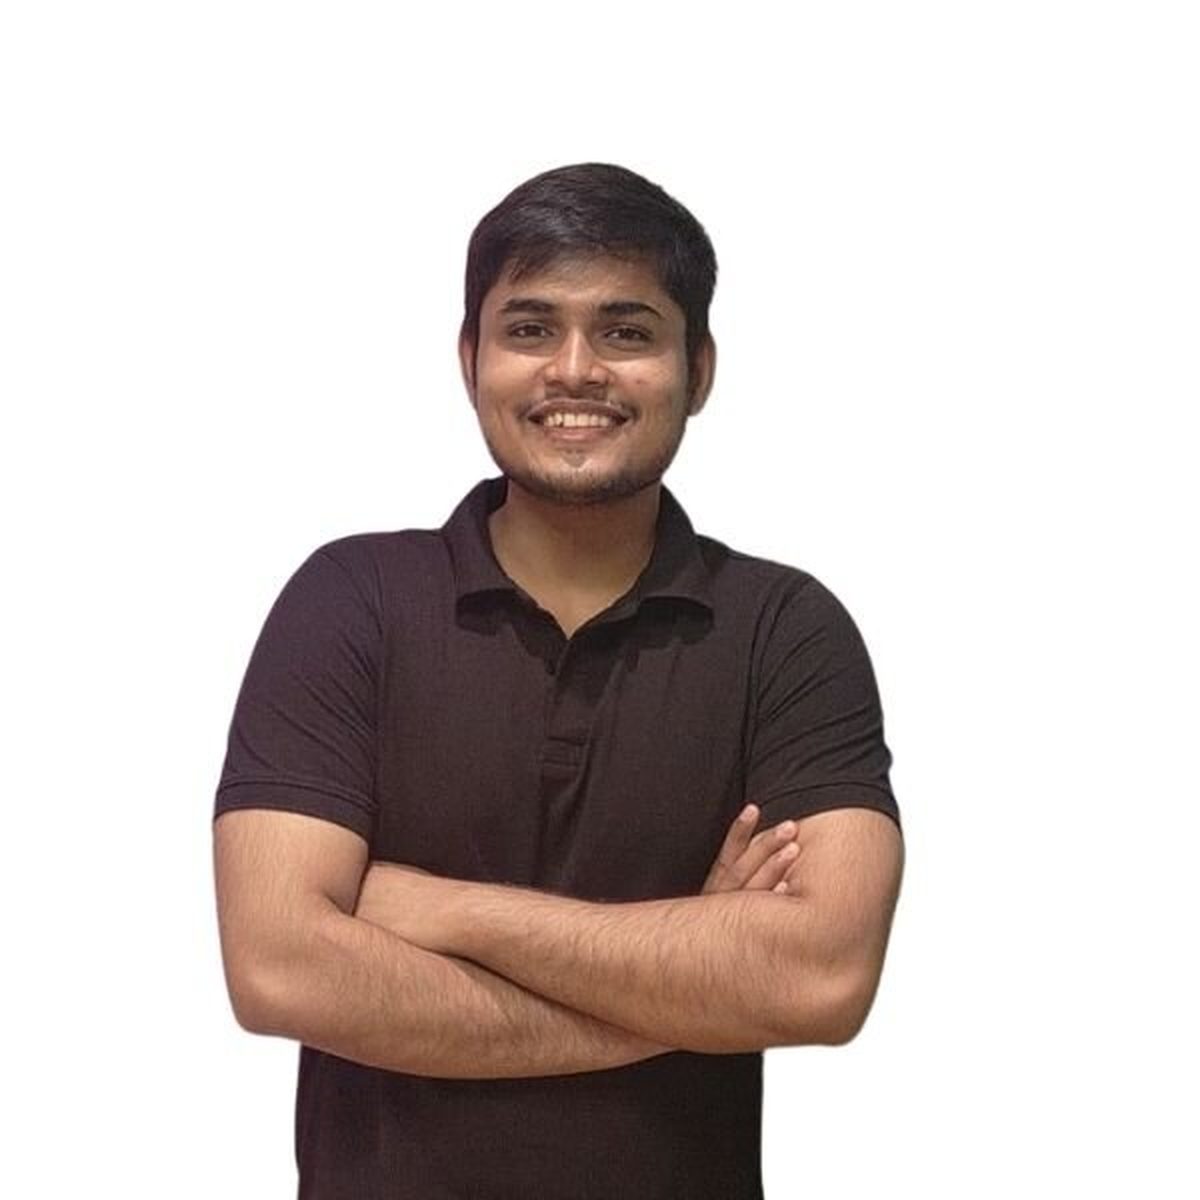
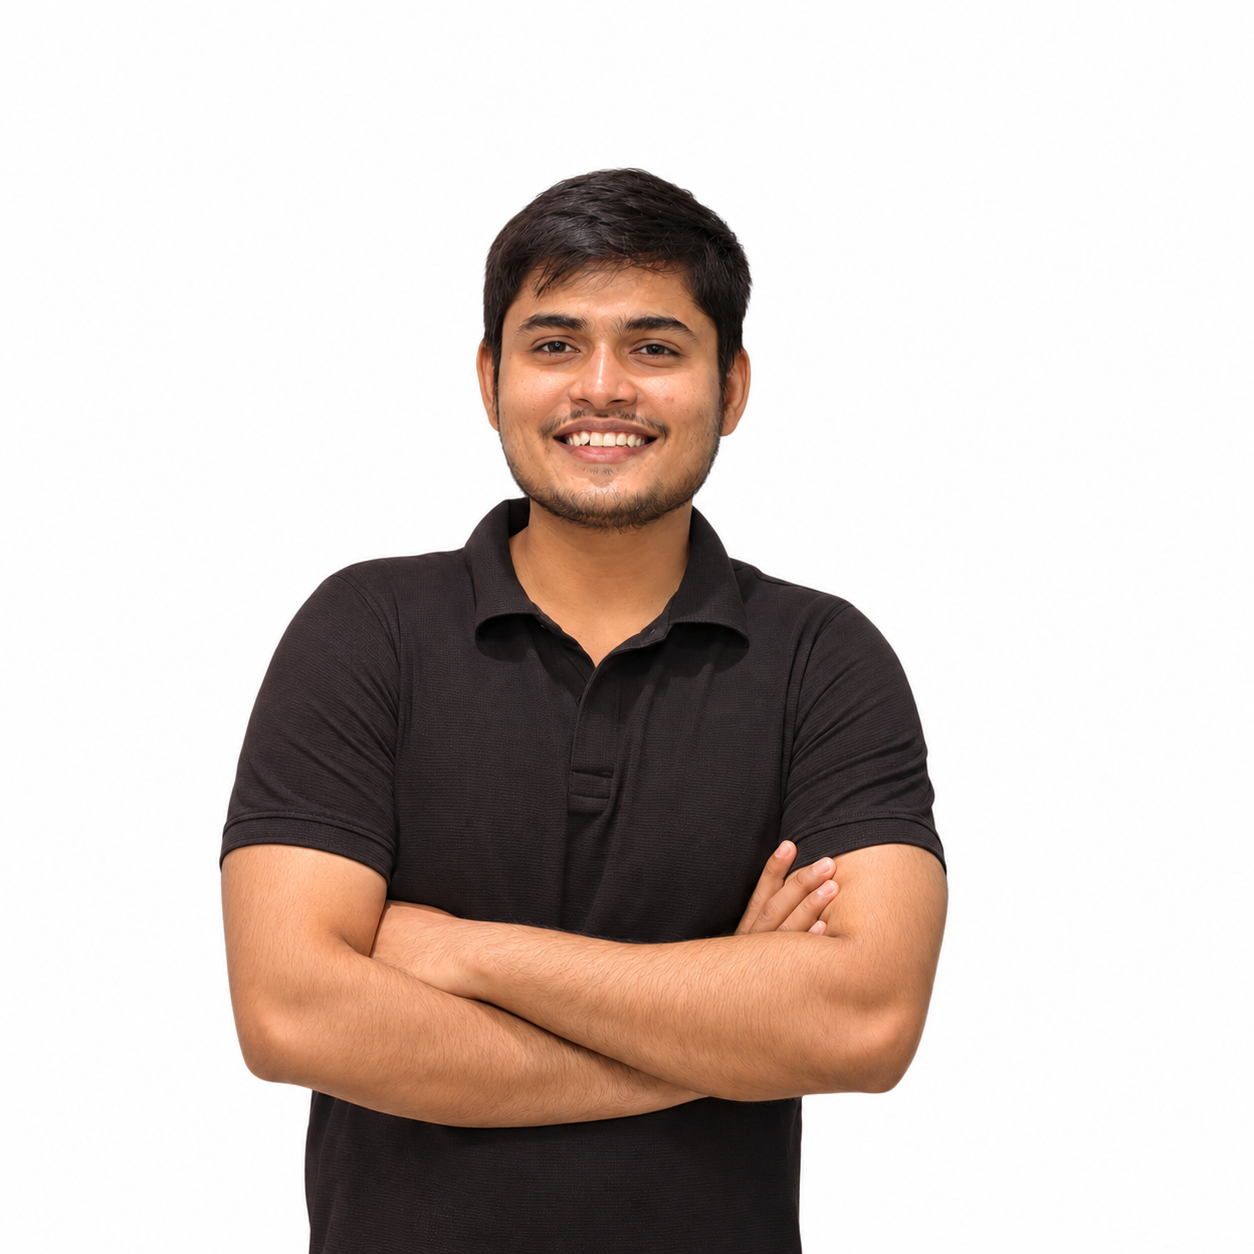
1

diff --git a/.astro/types.d.ts b/.astro/types.d.ts
@@ -1,2 +1,1 @@
 /// <reference types="astro/client" />
-/// <reference path="content.d.ts" />
